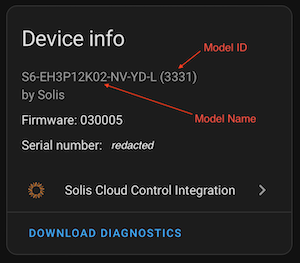
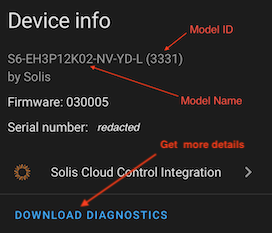
doc: update support request template and README for clarity

diff --git a/README.md b/README.md
@@ -12,6 +12,45 @@ See my blog post for inspiration how to use this integration: [Home Assistant So
 > If your primary goal is to monitor data from the Solis Cloud Monitoring API, you might want to explore the [Solis Sensor Integration](https://github.com/hultenvp/solis-sensor/).  
 > Both integrations are complementary and can be used together to enhance your Home Assistant setup.
 
+## Installation
+
+[![Open your Home Assistant instance and open a repository inside the Home Assistant Community Store.](https://my.home-assistant.io/badges/hacs_repository.svg)](https://my.home-assistant.io/redirect/hacs_repository/?owner=mkuthan&repository=solis-cloud-control)
+
+or install it manually:
+
+1. Open HACS in Home Assistant
+2. Go to "Integrations"
+3. Click on the three dots menu in the top right corner
+4. Select "Custom repositories"
+5. Add `https://github.com/mkuthan/solis-cloud-control` as an Integration
+6. Click "Add"
+7. Go back to the Integrations page
+8. Click on the "+" button in the bottom right corner
+9. Search for "Solis Cloud Control"
+10. Click on "Install" to add the integration to your Home Assistant instance
+
+After installation restart Home Assistant.
+
+## Configuration
+
+[![Open your Home Assistant instance and start setting up a new integration.](https://my.home-assistant.io/badges/config_flow_start.svg)](https://my.home-assistant.io/redirect/config_flow_start/?domain=solis_cloud_control)
+
+or add integration manually:
+
+1. Go to "Configuration" > "Integrations"
+2. Click on the "+" button in the bottom right corner
+3. Search for "Solis Cloud Control"
+4. Click on "Solis Cloud Control" to add the integration
+
+Follow the configuration steps:
+
+1. Enter your Solis API key and token
+2. Select the inverter you want to control from the list
+
+After successful configuration, the integration creates a new entity for your inverter. This entity includes the model name, model identifier, firmware version, and serial number.
+
+![Device Information](device_info.png)
+
 ## Supported devices
 
 All Solis hybrid inverters should be supported, although the integration has been tested with the following models:
@@ -24,38 +63,16 @@ The integration also supports the following Solis string inverters:
 * S6-GR1P(2.5-6)K, model "0200"
 
 > [!NOTE]
-> If your inverter is not listed here, please open an issue on GitHub using "New Solis Inverter Support Request" template.
-
-## Installation
-
-Use [HACS](https://www.hacs.xyz/) to install the integration:
-
-1. Open HACS in Home Assistant
-2. Go to "Integrations"
-3. Click on the three dots menu in the top right corner
-4. Select "Custom repositories"
-5. Add `https://github.com/mkuthan/solis-cloud-control` as an Integration
-6. Click "Add"
-7. Go back to the Integrations page
-8. Click on the "+" button in the bottom right corner
-9. Search for "Solis Cloud Control"
-10. Click on "Install" to add the integration to your Home Assistant instance
-11. Restart Home Assistant
-
-## Configuration
-
-1. Go to "Configuration" > "Integrations"
-2. Click on the "+" button in the bottom right corner
-3. Search for "Solis Cloud Control"
-4. Click on "Solis Cloud Control" to add the integration
-5. Enter your Solis API key and token
-6. Select the inverter you want to control from the list
+> If your inverter is not listed above, please open a GitHub issue using the "New Solis Inverter Support Request" template.
+> Include your inverter's model name, model identifier, and a downloaded diagnostics report.
 
 ## Features
 
-* ⚡ Control storage modes: "Self-Use", "Feed-In Priority" and "Off-Grid"
-* 🛠 Access "Battery Reserve" and "Allow Grid Charging" options as Storage Mode attributes
-* ⏱ Schedule charge and discharge slots
+The integration provides a user-friendly interface to control your inverter settings. It allows you to:
+
+* ⚡ Control storage modes: "Self-Use", "Feed-In Priority" and "Off-Grid" (hybrid inverters only)
+* 🛠 Access "Battery Reserve" and "Allow Grid Charging" options as Storage Mode attributes (hybrid inverters only)
+* ⏱ Schedule charge and discharge slots (hybrid inverters only)
 * ⚖ Set maximum export power
 * 🔌 Switch the inverter on or off
 
@@ -68,25 +85,23 @@ It also provides battery related sensors:
 > [!NOTE]
 > If the inverter doesn't support a specific feature, the integration disables the corresponding controls in the UI.
 
+## Non-functional features
+
 The integration also meets several non-functional requirements:
 
-* 📦 Batch reading of all inverter settings in a single request to fit within the Solis Cloud API limits
-* 🔄 Retry logic for API requests to mitigate API stability issues
-* 🏡 Best Home Assistant practices for integration development 😜
+* 📦 Batch reading of all inverter settings in a single request to fit within the Solis Cloud API limits.
+* 🔄 Retry logic for API requests to mitigate API stability issues.
+* ✅ After changing an inverter setting, the integration reads back the updated value from the inverter to verify that the change was applied successfully.
+* 🏡 Follows Home Assistant best practices for integration development to ensure a seamless and reliable user experience.
 
 ## Local Development
 
-Install dependencies (once):
+1. Install [uv](https://docs.astral.sh/uv/getting-started/installation/) tool.
+2. Install project dependencies using `uv sync` command.
+3. Run the integration locally using `./scripts/run` script and open the UI at <http://localhost:8123>
+4. Configure the integration using the Home Assistant UI.
 
-```bash
-uv sync
-```
-
-Run the integration locally and open the UI at <http://localhost:8123>:
-
-```bash
-./scripts/run
-```
+## Testing
 
 Run all tests:
 
@@ -100,7 +115,7 @@ Run a single test:
 uv run pytest --cov-fail-under=0 tests/test_init.py
 ```
 
-## Release
+## Releasing
 
 To release a new version, create a new tag and push it to the repository:
 
@@ -109,7 +124,7 @@ git tag v1.0.1
 git push origin v1.0.1
 ```
 
-To release a new alpha version, create a new tag with the `alpha` suffix and push it to the repository:
+To release a new alpha version, create a new tag with the `alpha`, `beta` or `rc` suffix and push it to the repository:
 
 ```bash
 git tag v1.0.1-alpha.1

diff --git a/.github/ISSUE_TEMPLATE/new-solis-inverter-support-request.md b/.github/ISSUE_TEMPLATE/new-solis-inverter-support-request.md
@@ -9,10 +9,6 @@ assignees: ''
 
 Thank you for your interest in expanding the capabilities of this integration! To help us add support for your new Solis inverter, please provide as much of the following information as possible.
 
-Sample device info page (use "Preview" tab to see the image):
-
-![Device Details Screen](https://raw.githubusercontent.com/mkuthan/solis-cloud-control/main/device_info.png)
-
 **1. Inverter Model Name/Type:**
 Please provide the exact model name/type of your Solis inverter (e.g., S6-EH3P12K02-NV-YD-L).
 
@@ -27,8 +23,8 @@ Please provide the model identifier/number of your Solis inverter (e.g., "3331")
 [Your Inverter Model Identifier/Number]
 ```
 
-**3. Diagnostic Information:**
-Download diagnostic from Home Assistant integration page. Please paste `inverter_info` and `coordinator_data` fields within the code block below.
+**3. Diagnostics Information:**
+Download diagnostics from Home Assistant integration page. Please paste `inverter_info` and `coordinator_data` fields within the code block below.
 
 ```json
 [Paste Your Diagnostic JSON Here]
@@ -38,7 +34,7 @@ Download diagnostic from Home Assistant integration page. Please paste `inverter
 Please provide any other relevant information that might help us add support for this inverter. For example:
 
 - What specific features or sensors are you hoping to see?
-- Logs or error messages that you have encountered
-- Any other context or observations
+- Screenshots of the inverter's web interface or app with settings you would like to control
+- Logs or error messages from the integration that you have encountered
 
 We appreciate you taking the time to provide this information. Adding support for new hardware can be complex, and your detailed input is crucial for success!
